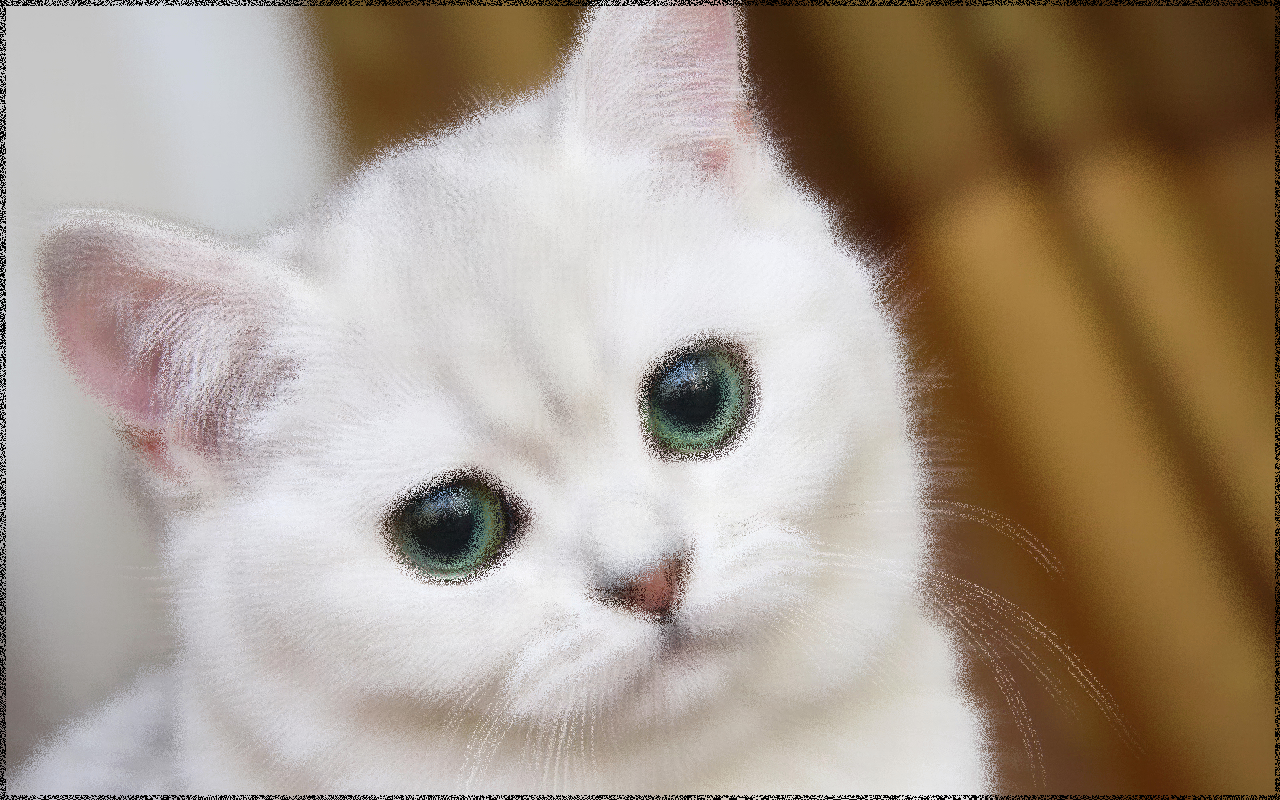
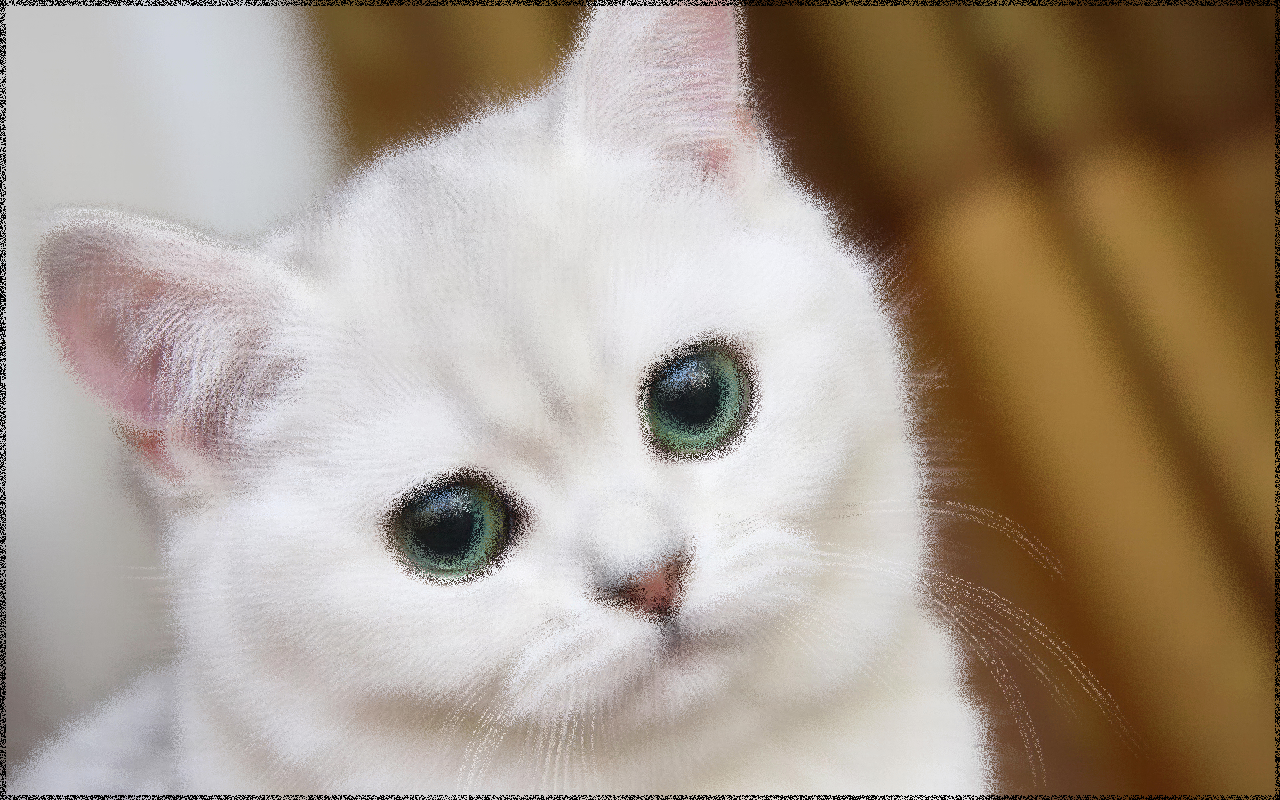
gaus improve

diff --git a/Practice1/Sources/Filters/GaussianBlurFilter.cpp b/Practice1/Sources/Filters/GaussianBlurFilter.cpp
@@ -12,7 +12,7 @@ GaussianBlurFilter::GaussianBlurFilter(int radius_, int sigma) : MatrixFilter(ra
         for (int j = -radius; j <= radius; j++)
         {
             int index = (i + radius) * size + (j + radius);
-            vector[index] = exp(-(i * i + j * j) / (sigma * sigma));
+            vector[index] = exp(-((float)(i * i + j * j)) / ((float)(sigma * sigma)));
             norm += vector[index];
         }
     }
